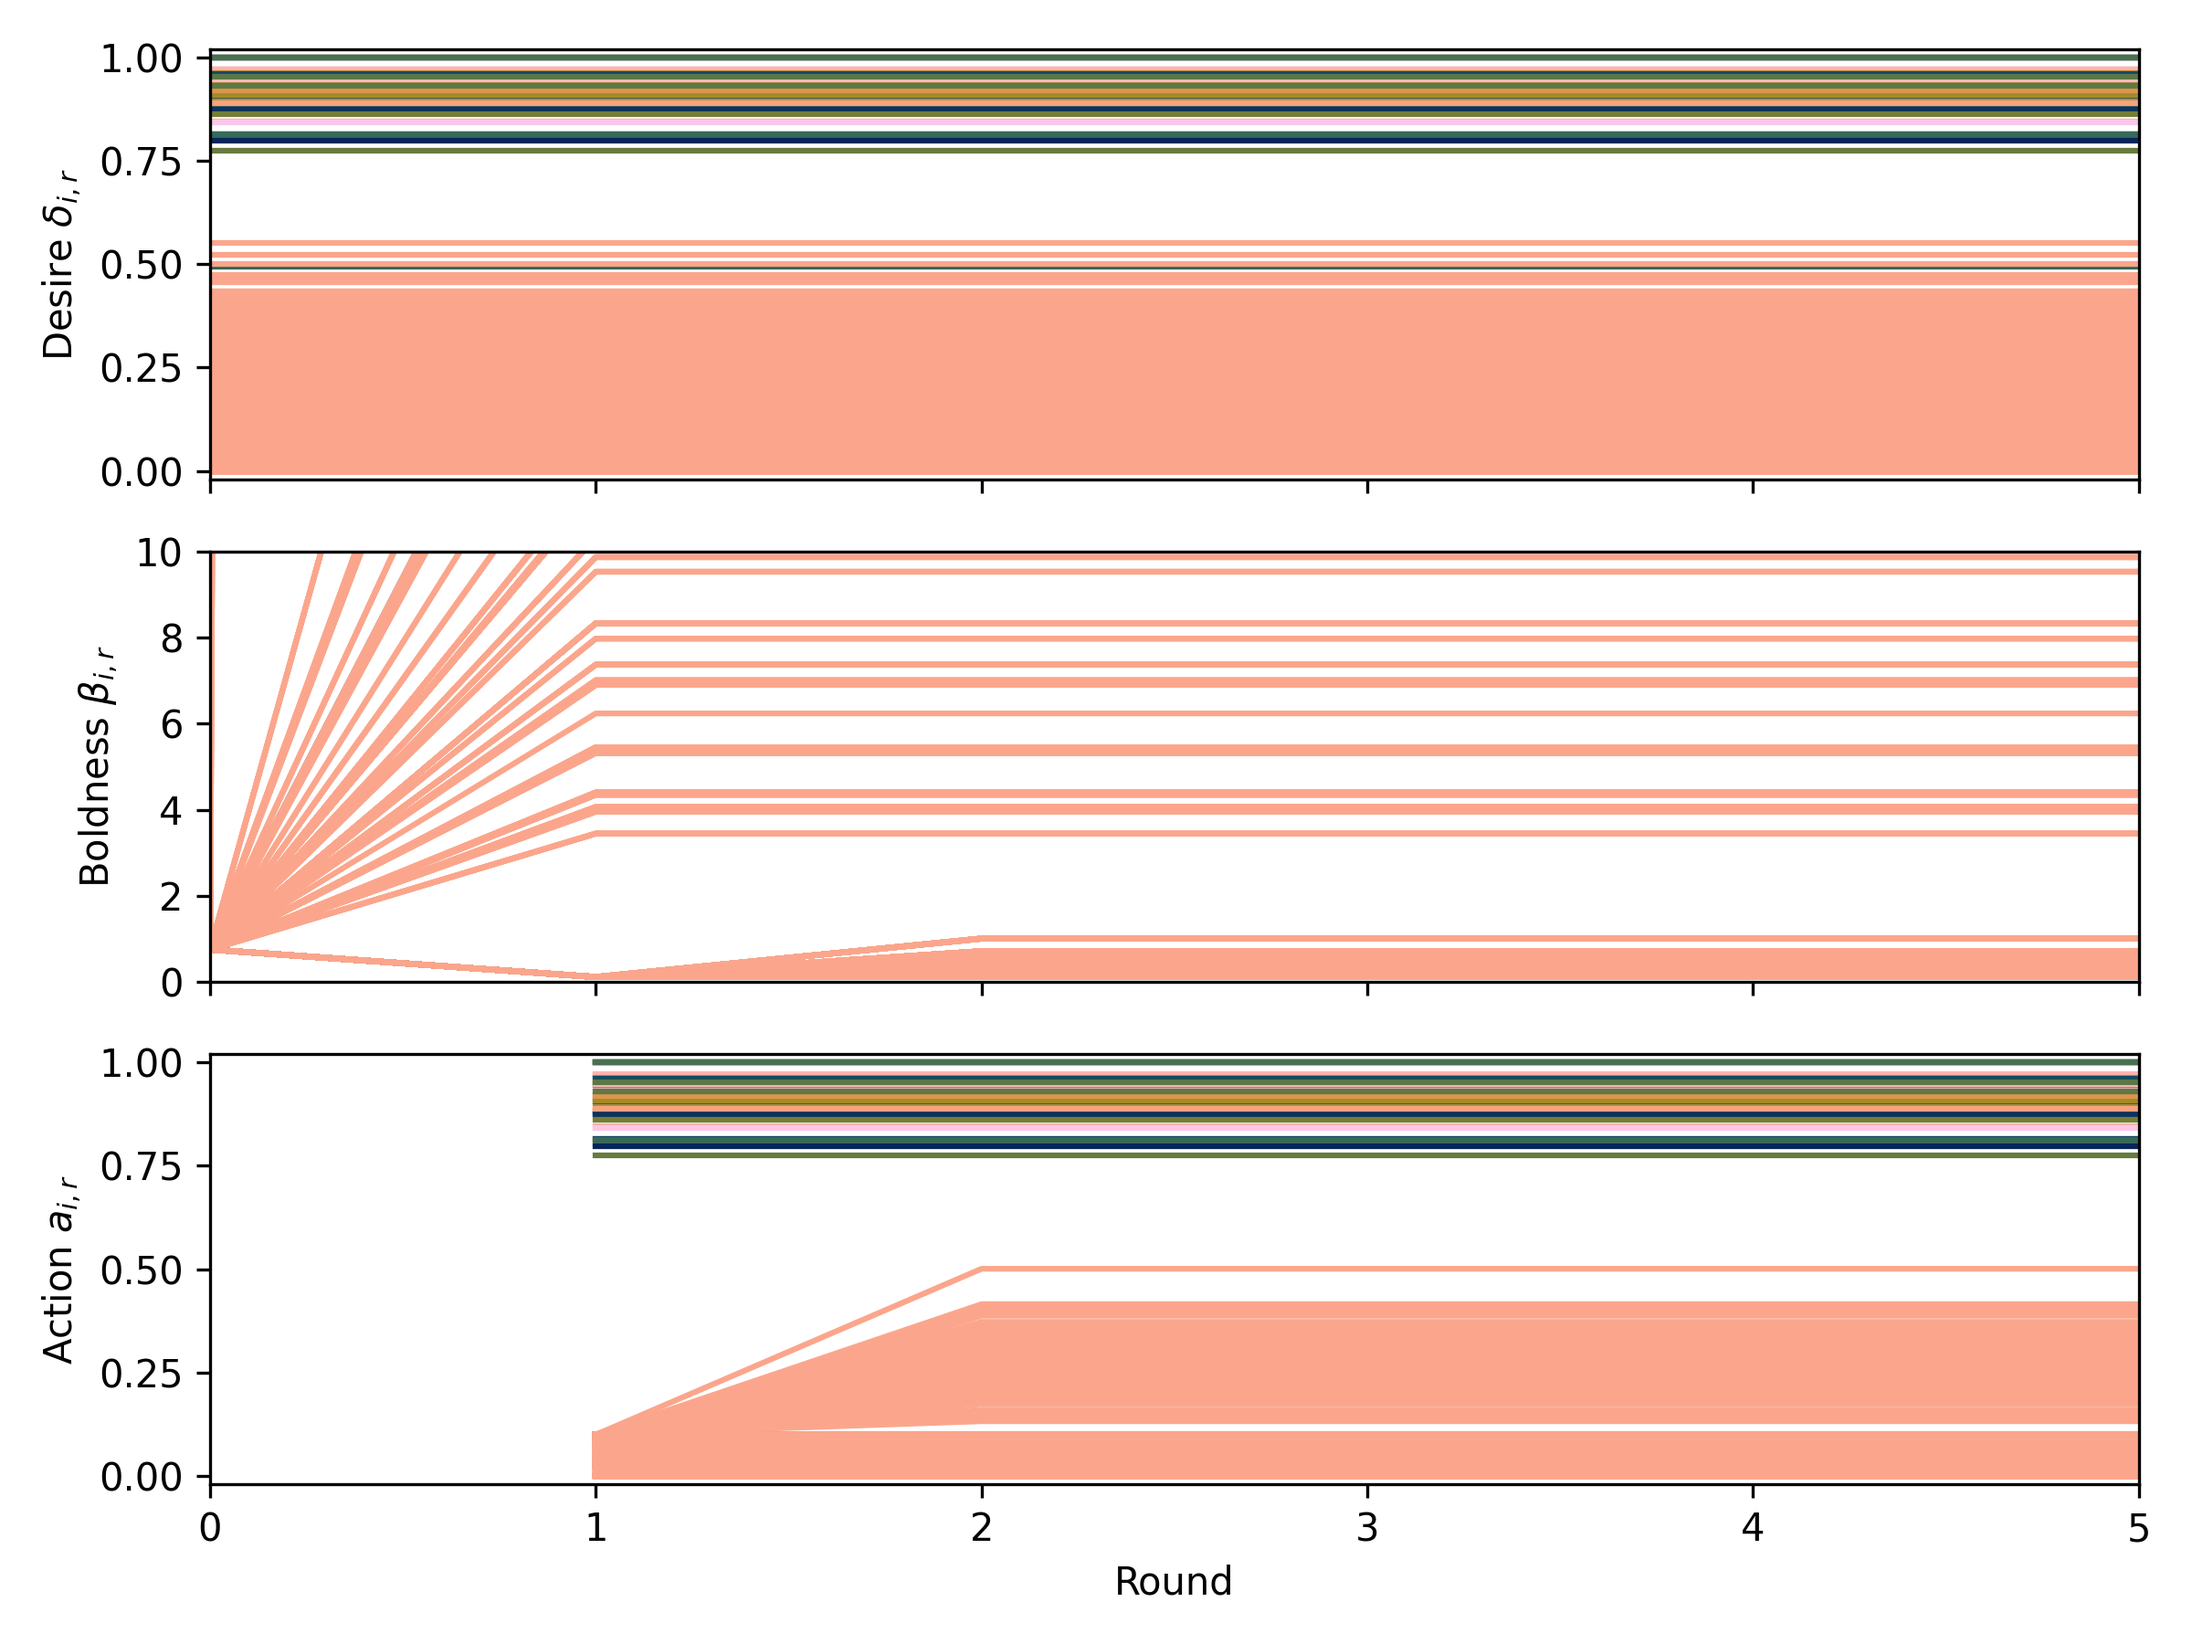
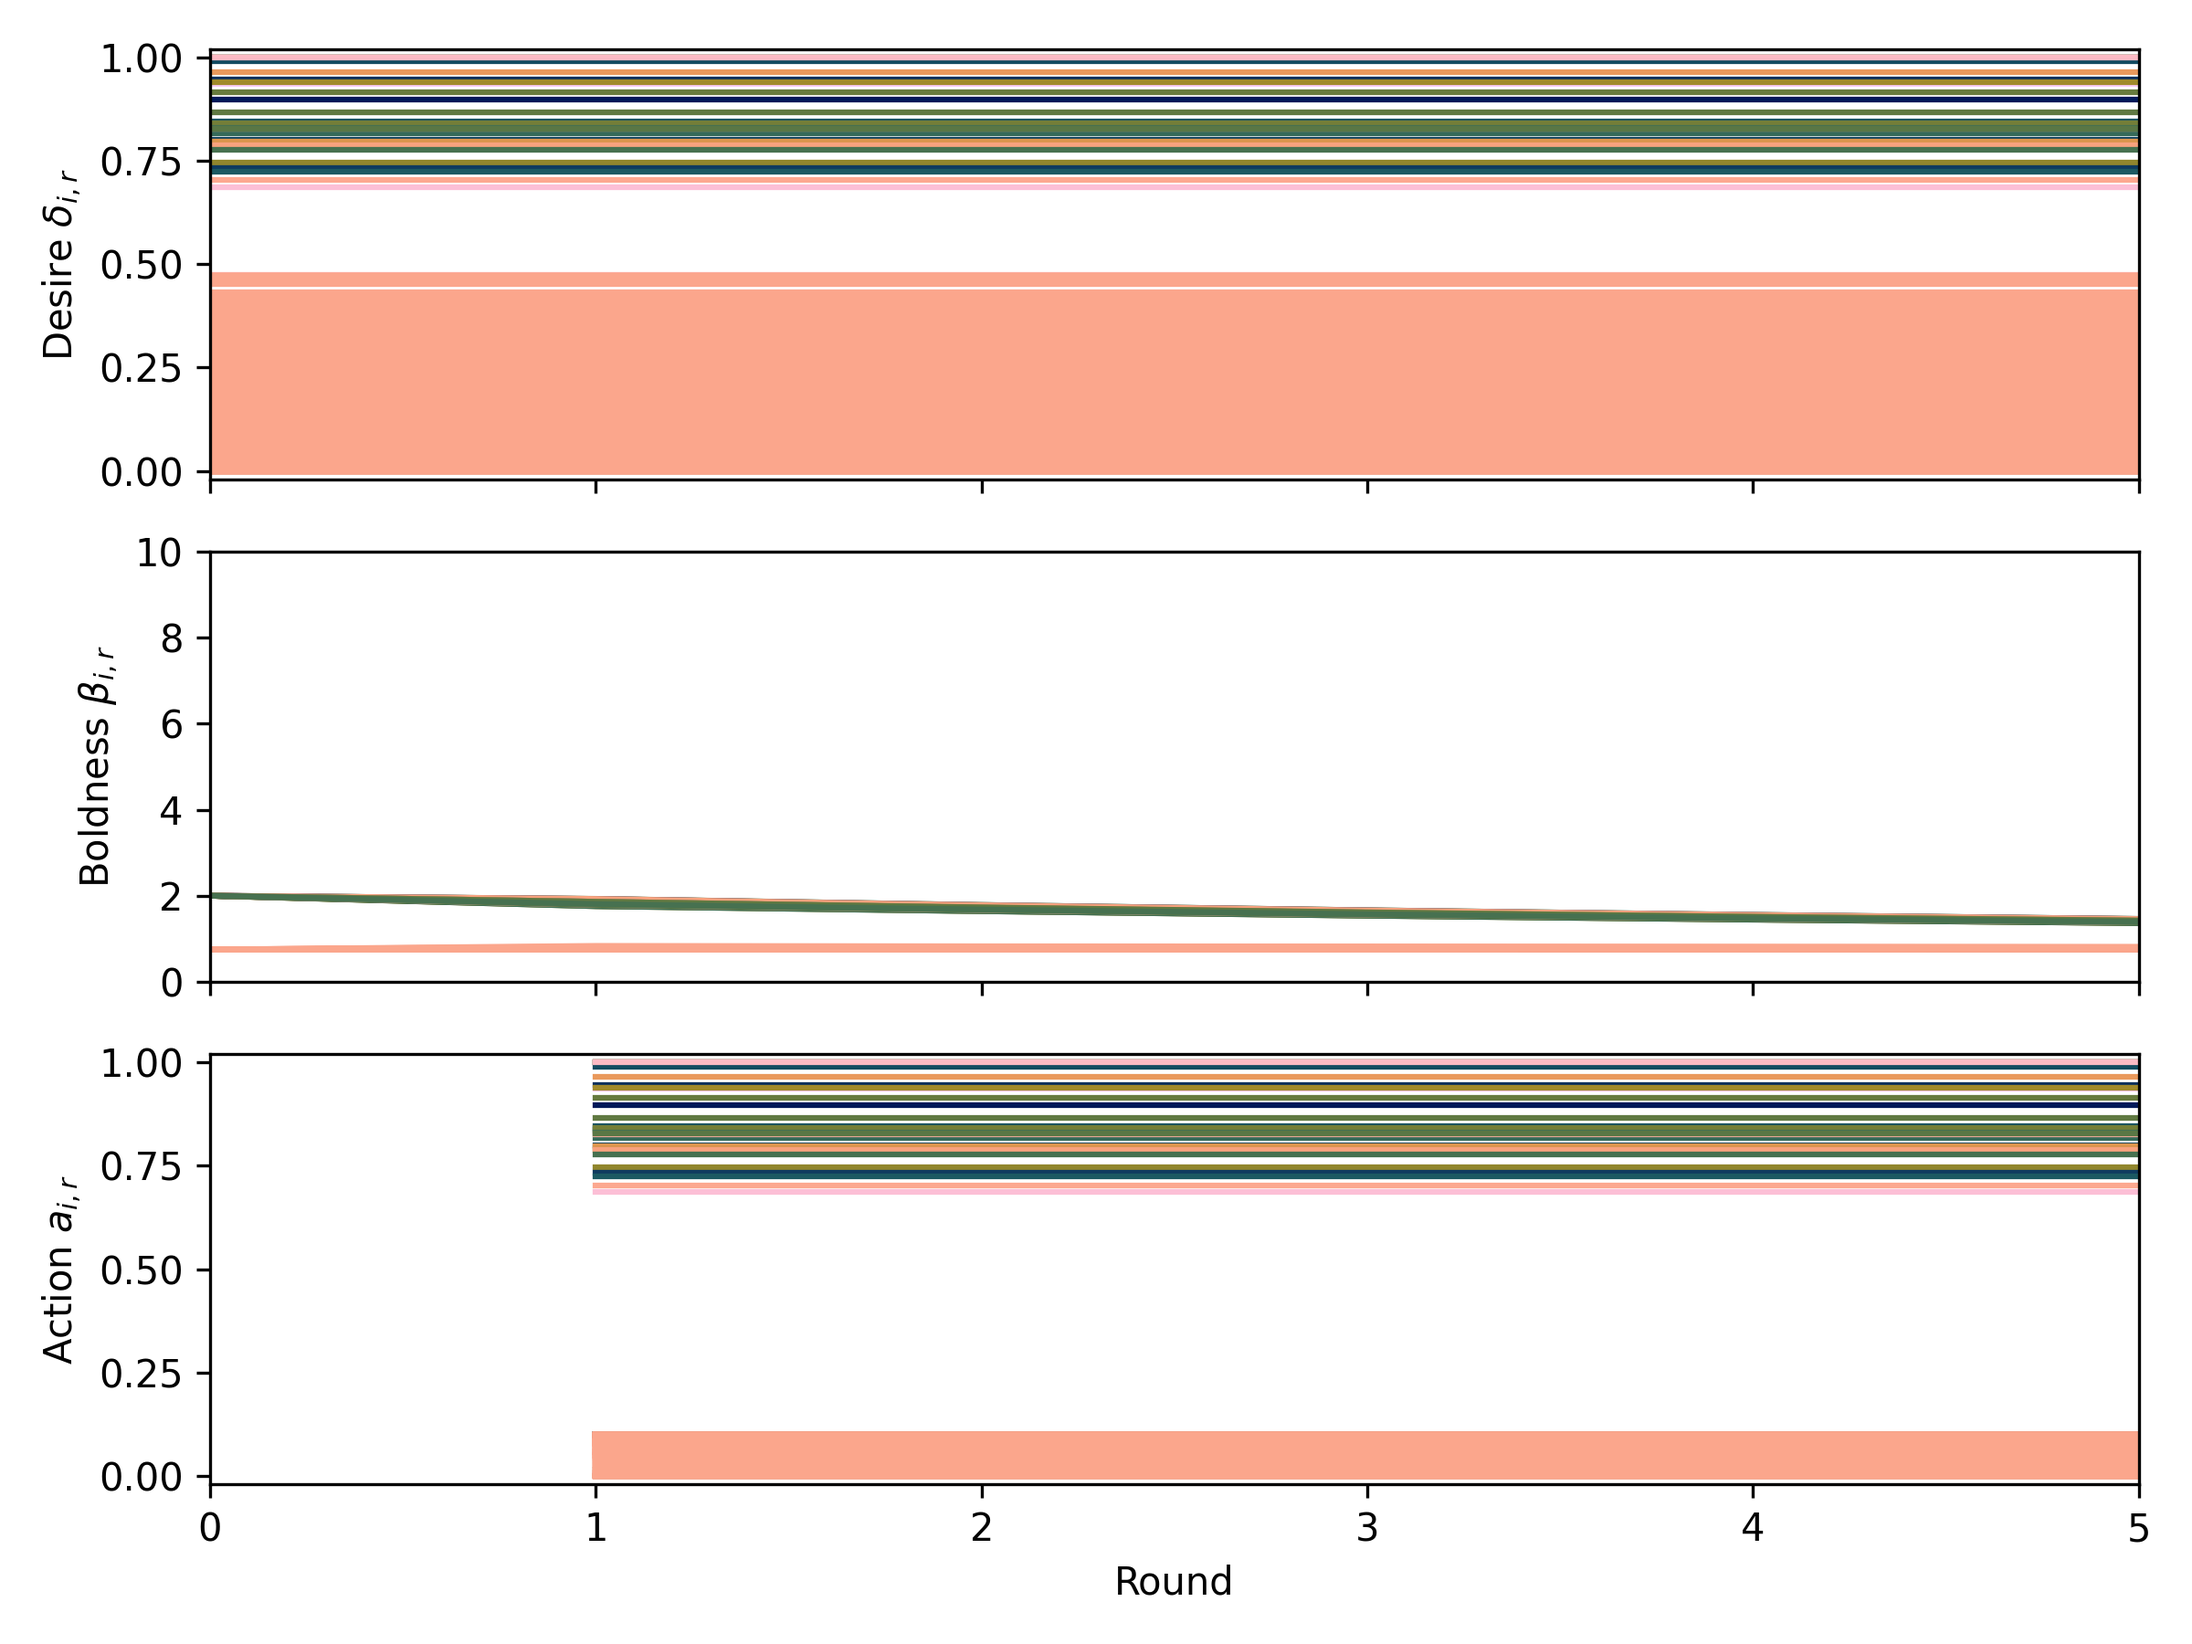
new graphs and adding new funcs(d2sim/d2max/b2b)

Changed region(s): [[0.0938, 0.3111, 1.0, 0.8711], [0.0938, 0.0311, 1.0, 0.1867]]

diff --git a/code/engine.py b/code/engine.py
@@ -33,6 +33,28 @@ def b2sim(G, deltas, acts, shape=1):
     new_betas = np.minimum(np.maximum(new_betas, 1e-6), 1 - 1e-6)
     return shape * (1 / new_betas - 1)
 
+def d2sim(G, deltas, acts, shape=1):
+    """
+    Paper-style similarity boldness update (d2sim):
+
+        beta_{i,r+1} = shape * ( 1 / ( (1/|N(i)|) * sum_{j in N(i)} 1/|delta_i - a_{j,r}| ) - 1 )
+
+    Implementation matches the style of b2sim/b2a:
+      - compute a per-node value in (0,1)
+      - clamp to [1e-6, 1-1e-6]
+      - return shape * (1/value - 1)
+    """
+    new_betas = np.zeros(len(deltas))
+    for i in range(len(deltas)):
+        # distances to neighbors' actions
+        d = np.abs(deltas[i] - acts[G[i]])
+        d = np.maximum(d, 1e-6)               # avoid division by zero
+
+        avg_inv = np.mean(1.0 / d)            # mean of inverse distances (paper version)
+        new_betas[i] = 1.0 / avg_inv          # this is in (0,1] because avg_inv >= 1 for d in (0,1]
+
+    new_betas = np.minimum(np.maximum(new_betas, 1e-6), 1 - 1e-6)
+    return shape * (1 / new_betas - 1)
 
 def b2a(G, acts, shape=1):
     """
@@ -51,6 +73,21 @@ def b2a(G, acts, shape=1):
     new_betas = np.minimum(np.maximum(new_betas, 1e-6), 1 - 1e-6)
     return shape * (1 / new_betas - 1)
 
+def d2max(G, acts, shape=1):
+    """
+    Paper-style max-neighbor-action boldness update (d2max):
+
+        beta_{i,r+1} = shape * ( 1 / (1 - max_{j in N(i)} a_{j,r}) - 1 )
+
+    This is algebraically the same form as b2a; we keep it for naming consistency
+    with the report/PDF.
+    """
+    new_betas = np.zeros(len(acts))
+    for i in range(len(acts)):
+        new_betas[i] = 1 - np.max(acts[G[i]])  # (1 - max action)
+
+    new_betas = np.minimum(np.maximum(new_betas, 1e-6), 1 - 1e-6)
+    return shape * (1 / new_betas - 1)
 
 def d2d(G, deltas, w=0.5):
     """
@@ -106,7 +143,23 @@ def a2a(G, opt_acts, acts, w=0.5):
         new_acts[i] = w * opt_acts[i] + (1 - w) * np.mean(acts[G[i]])
 
     return new_acts
+    
+def b2b(G, betas, w=1.0):
+    """
+    Averaging for boldness (beta):
+        beta_{i,r+1} = (w * beta_{i,r} + sum_{j in N(i)} beta_{j,r}) / (w + |N(i)|)
 
+    This is the boldness analogue of d2d_S15: boldness diffuses through the network.
+    """
+    new_betas = np.zeros(len(betas))
+    for i in range(len(betas)):
+        nbrs = list(G[i])
+        deg = len(nbrs)
+        if deg == 0:
+            new_betas[i] = betas[i]
+            continue
+        new_betas[i] = (w * betas[i] + np.sum(betas[nbrs])) / (w + deg)
+    return new_betas
 
 ############################## SIMULATION ENGINE ##############################
 
@@ -139,7 +192,7 @@ def engine(G, N=100, R=100, rule='d2d', w=0.5, deltas=np.linspace(0, 1, 100),
     :returns: an Nx(R+1) array of boldness histories
     :returns: an NxR array of action histories
     """
-    assert rule in ['b2sim', 'b2a', 'd2d', 'd2a', 'a2a'], f'ERROR: Unrecognized rule \"{rule}\"'
+    assert rule in ['b2sim', 'b2a', 'd2d', 'd2a', 'a2a','d2sim','d2max','b2b'], f'ERROR: Unrecognized rule \"{rule}\"'
 
     # Set up arrays to record desired dissent, boldness, and action histories.
     delta_hist = np.zeros((N, R+1))
@@ -167,12 +220,18 @@ def engine(G, N=100, R=100, rule='d2d', w=0.5, deltas=np.linspace(0, 1, 100),
         # Apply the specified adaptation rule.
         if rule == 'b2sim':  # "solidarity", adapt boldness to similarity
             betas = b2sim(G, deltas, acts, shape=w)
+        elif rule == 'd2sim':  # paper: mean of inverse distance
+            betas = d2sim(G, deltas, acts, shape=w)
         elif rule == 'b2a':  # "solidarity", adapt boldness to actions
             betas = b2a(G, acts, shape=w)
+        elif rule == 'd2max':  # paper name for max neighbor action
+            betas = d2max(G, acts, shape=w)
         elif rule == 'd2d':  # "sharing around tables", adapt desire to desires
             deltas = d2d(G, deltas, w)
         elif rule == 'd2a':  # "socialization", adapt desire to actions
             deltas = d2a(G, deltas, acts, w)
+        elif rule == 'b2b':  # boldness change based on others boldness
+            betas = b2b(G, betas, w)
         elif r > 0:  # "when in Rome", adapt optimal action to previous actions
             acts = a2a(G, acts, act_hist[:, r-1], w)
 

diff --git a/code/solidarity.py b/code/solidarity.py
@@ -36,7 +36,7 @@ if __name__ == '__main__':
 
     # Run simulation.
     deltas, betas, acts = engine(
-        G, N=N, R=R, rule='b2a', w=1, deltas=deltas, betas=betas, nu=0.5,
+        G, N=N, R=R, rule='b2b', w=1, deltas=deltas, betas=betas, nu=0.5,
         pi='uniform', tau=0.1, sigma_tau=0.0, psi=1, sigma_psi=0.0, rng=rng)
 
     # Plot the network.
